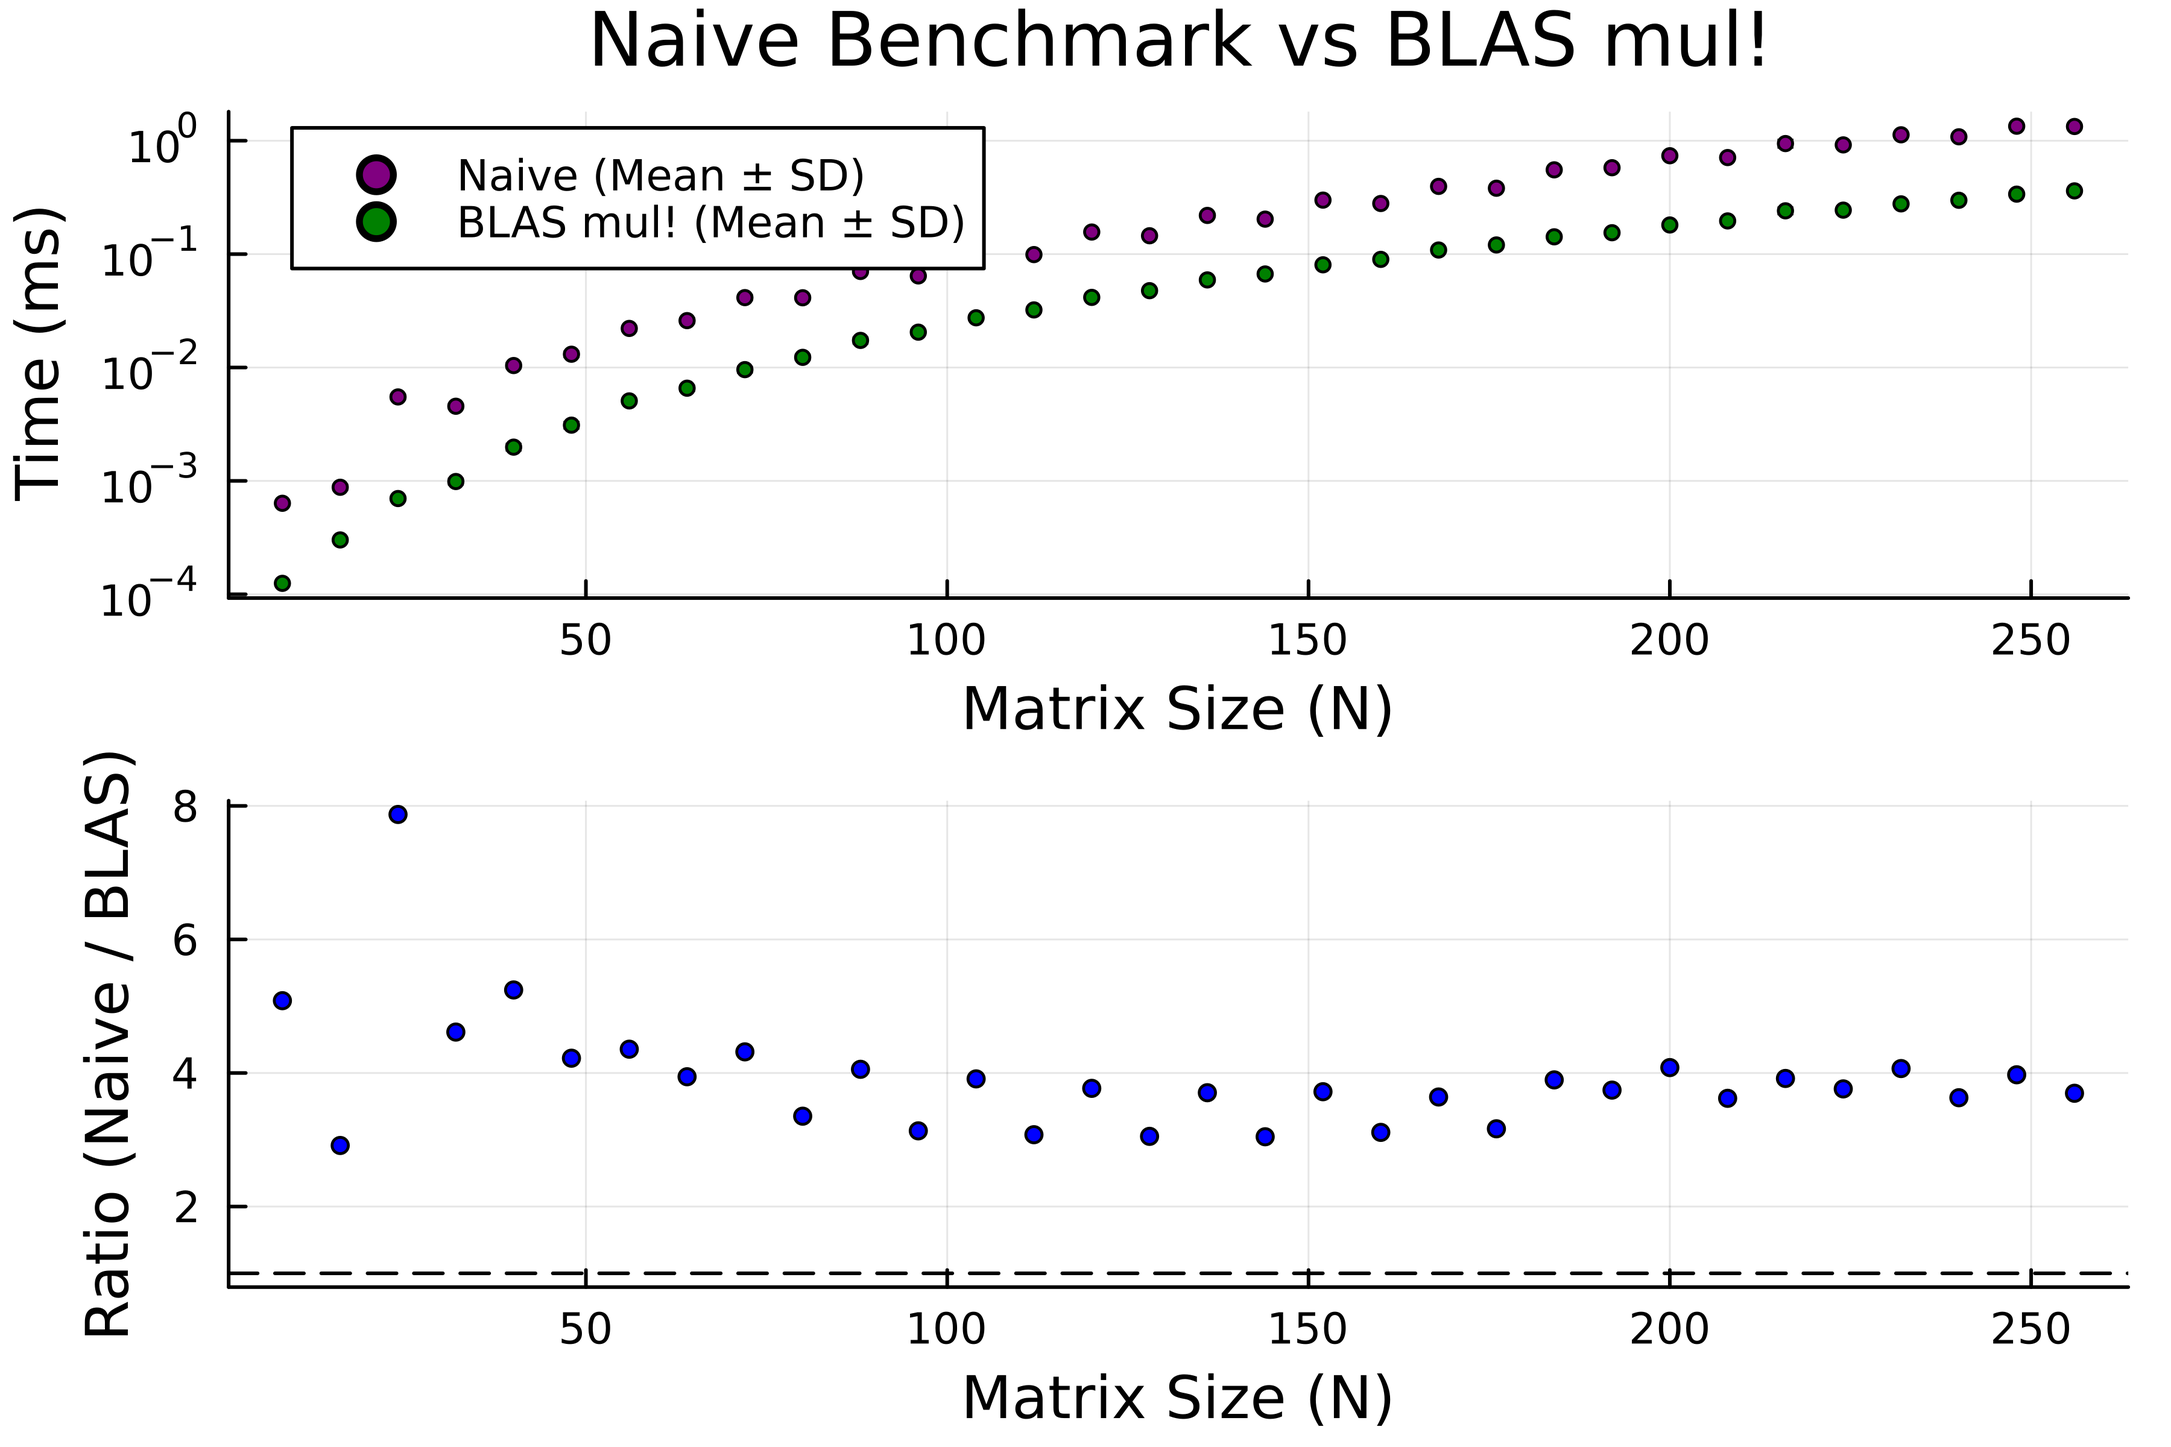
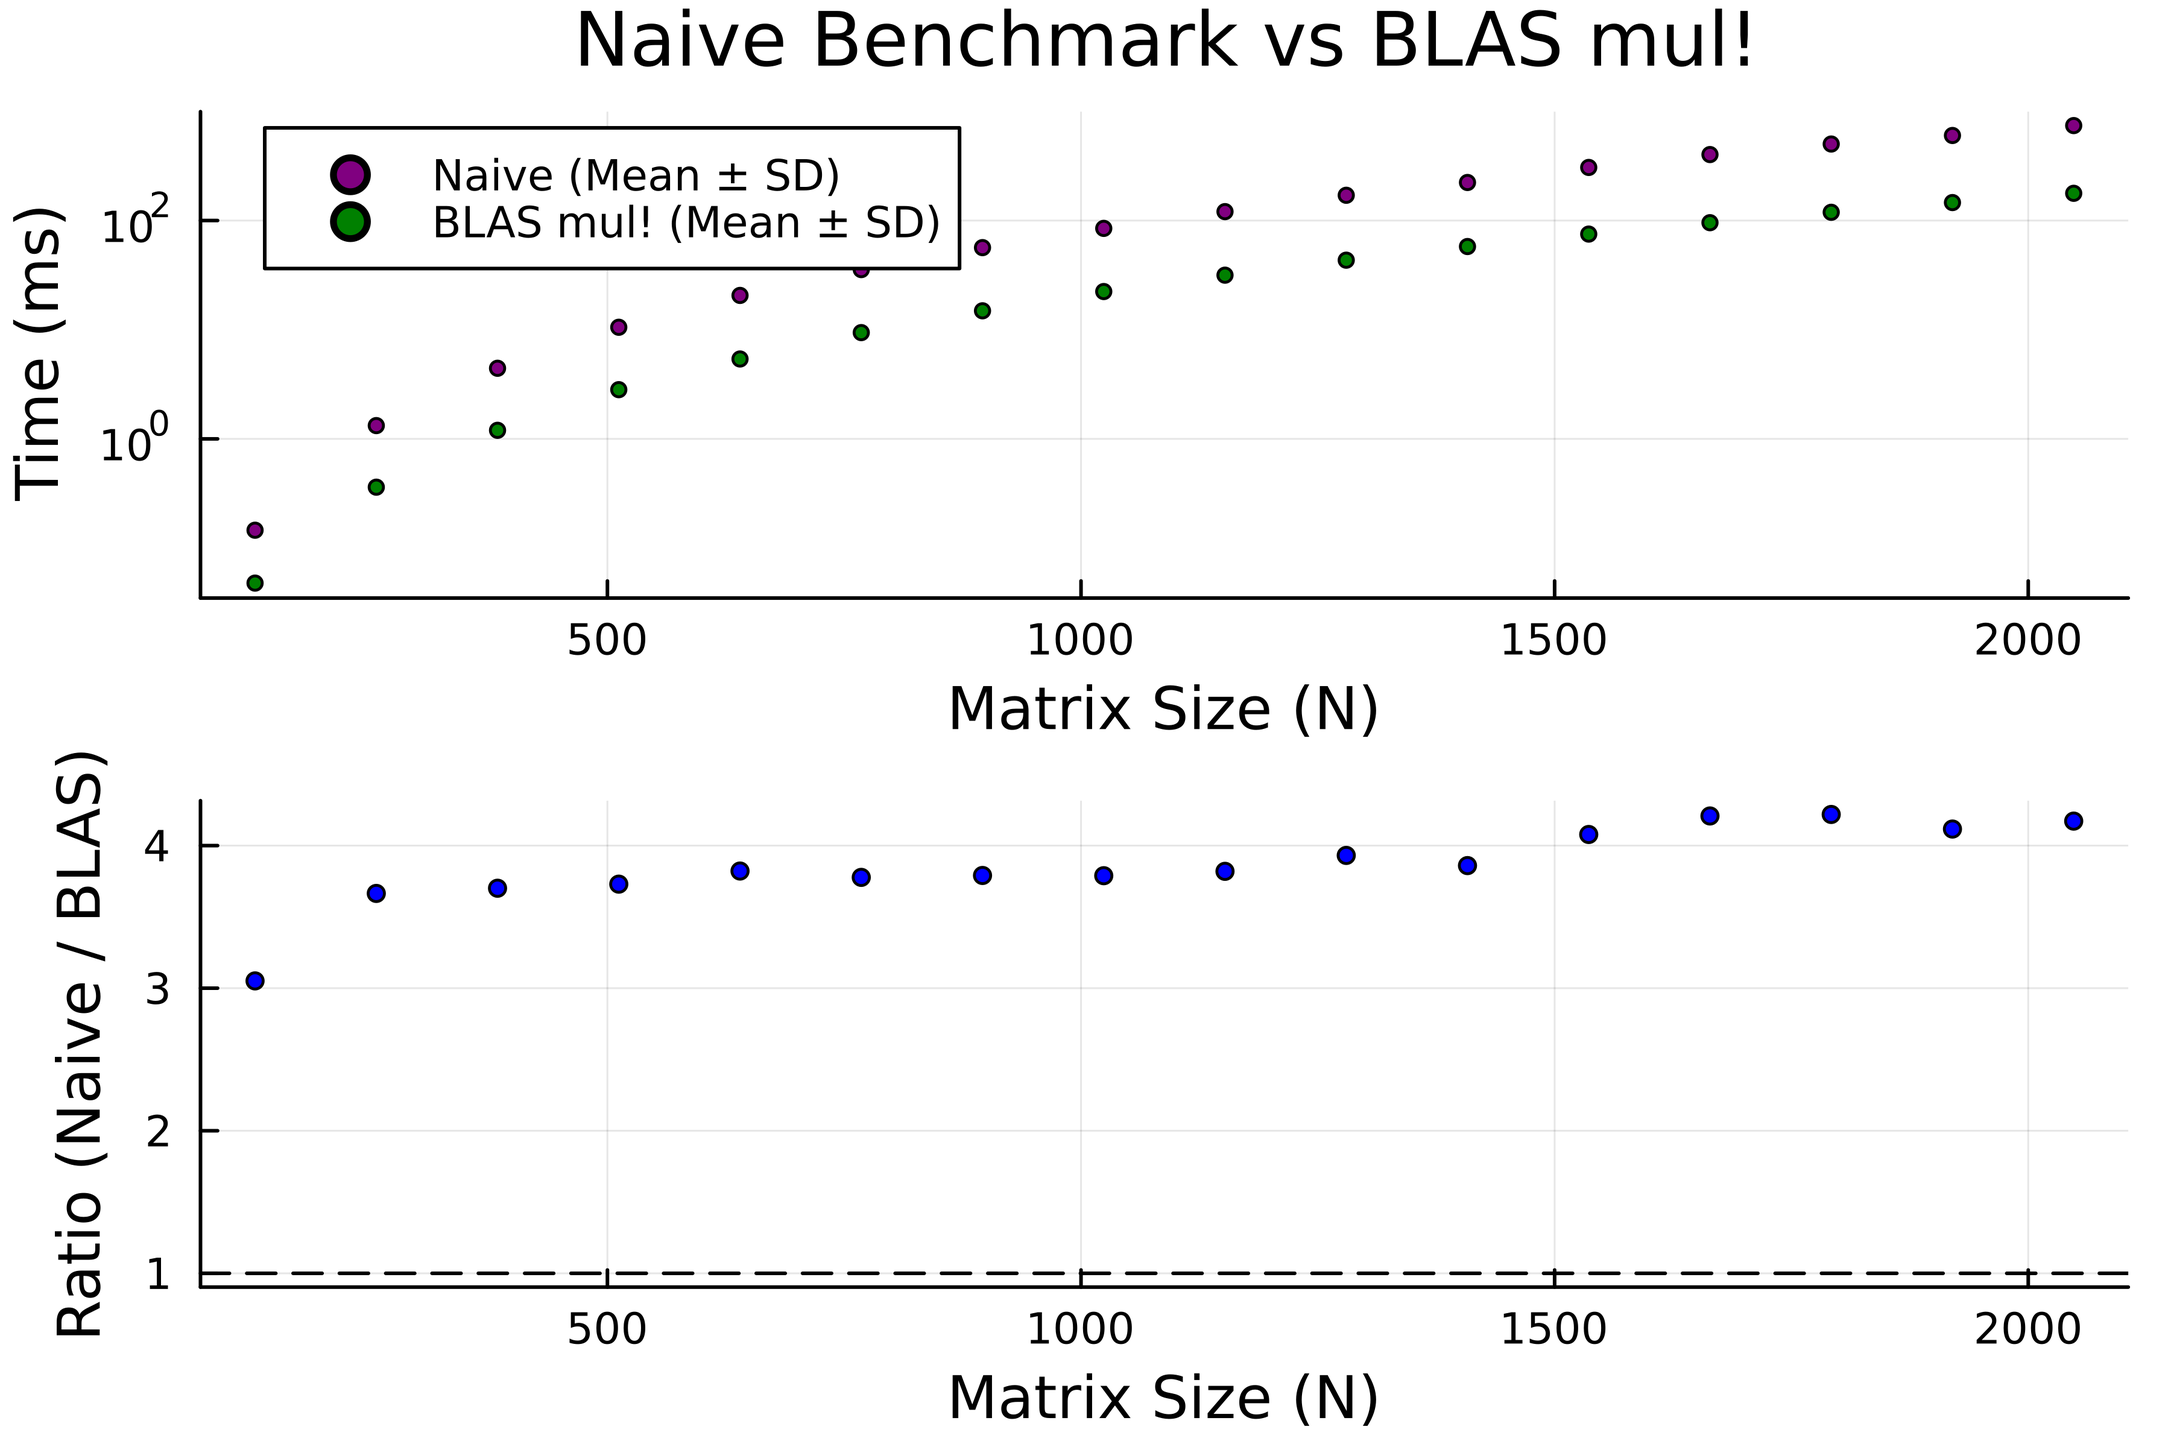
Writeup

diff --git a/README.md b/README.md
@@ -1,2 +1,112 @@
 # GEMM-workbench
 Implementing a cache-aware, partially generic GEMM in Julia
+
+## Disclaimer
+
+The benchmarks and hyperparameter tuning was performed on an M1 Pro. The microkernel design makes use of certain ARM-specific NEON SIMD intrinsics implicitly: however we will discuss non-ARM alternatives. 
+
+The high-level implementation used here is largely based on the following [BLIS paper](https://link.springer.com/article/10.1007/s11227-022-05003-3): the microkernel is backend agnostic and is making use of the LLVM-level **SIMD.jl** package and code generation. The GEMM presented is strictly single-thread but we will discuss potential paralelization techniques.
+
+We only show an FP32 implementation, however the generated nature of the microkenerl makes it trivial to generalize to higher (or lower) precisions.
+
+## Matrix Multiplication
+
+It would be not a great exagaration to claim that matrix multiplication is one of the most important parts of modern computing: from solving linear problems, to linear programming, regression, modern machine learning models, graphics and even graph theory, it dominates both technical and non-technial computing and powers large parts of our modern infrastructure. 
+
+General matrix multiplication (GEMM) thus tends to be one of the most optimized pieces of code ever written, with microkernels typically written in assembly directly. They typically push the theoretical maximum FLOPs (floating point operations per second) of hardware by carefully hiding latency and managing the cache-flow of the involved memory. This makes these implementations, as we will see, dozens of times faster than naive "triple loop" solutions.
+
+## Cache 101
+
+Virtually all modern hardware makes use of a **cache hierarchy**: that is, between RAM and the CPU registers (which can actually modify data) we have multiple layer (typically called L3-L1) **caches** which are faster to access by the CPU than RAM. Cache that is closer to the CPU is smaller in size (typically ~32-128 kB) but is extremely fast to access: cache "further out" is slower to access but holds much more data.
+
+The way and how data is cached is dictated by two things: these are typically called **temporal** and **spatial locality**. 
+
+Whenever the CPU requests data from memory, its also grabs the surronding 64-byte strip called a **cache line**, i.e. we anticpiate that data that is close in memory will be used again soon: hence the **spatial** part. If we use data that efficently by understanding the underlying memory layout, we can make use of this effect and use this close-by-data which is already bough to the fast-access cache.
+
+Since caches have small memory sizes, the CPU usually relies on a heuretic like least-recently-used (LRU) selection to remove "old" data from the cache and make space for new one. Good usage of **temporal locality** means that we keep data "hot" in cache, and keep reusing it as long as possible, before it being evicted by the CPU, i.e. we effectively stop needless reloads from RAM.
+
+## Memory layout 101
+
+All memory is one-dimensional and discrete. Higher dimensional objects, like matrices, N-D arrays, map into the underlying 1-D memory through space-filling curves. Due to historical reasons (mainly because of the differing conventions used by C and Fortran), two main ways of such emerged: **Column major** (Fortan, Julia) and **row major** (C-languages, Numpy), called as such for which dimension is continious in a matrix (rows or columns). For instance, for a matrix multiplication, we can visualize the linear memory indeces in Julia as seen bellow.
+
+![](./media/linear_index_matmul.png)
+
+## Naive approaches and where they fail
+
+The often cited (and for small matrices, not too bad!) implementation to compute $C_{ij} = A_{ik}B_{kj}$ relies on maximizing **spatial locality** to try to achieve high performance. In Julia, this means a loop order of j-k-i (outermost loop is j).
+
+The following figure shows the result of this implementaion compared to BLAS. 
+
+![](./media/naive_spat_loc_vs_blas_comp.png)
+
+While this implementation exploits spacial locality, it completely neglects temporal locality. As the size of the involved matrices grow, less and less of them will fit into the inner caches. The j-k-i order means that, due to the LRU nature of the cache system, we are constantly trashing elements of matrix A (which were not used recently) and we need to reload it from slower cache layers! This is visible on the plot - the ratio to BLAS speed is roughtly constant on two intervals, and ju,ps once it hits the limit of the L2 and L3 cache, which cause trashing into the L3 and RAM respectively.
+
+A naive solution to this would be to ignore spatial locality altogether and go for greatly increased **temporal locality**. This is achieved via an j-i-k order, which is optimal for the spatial locality of C and A, but trashes spatial access for B. 
+
+As it turns out, this is a horrible idea. Modern CPUs are also eqipped with some tools to mitigate inefficient spatial and temporal access patterns, but it is simply not enough to neglect the inefficient access for B (also, makes it harder for the compiler to apply SIMD intrinsics)
+
+![](./media/naive_temp_loc_vs_blas_comp.png)
+
+For these implementations, see the scripts `naive_spat_loc_vs_blas.jl` and `naive_temp_loc_vs_blas.jl` scripts.
+
+## Anatomy of a high-performance GEMM
+
+A high perfomance matrix-multiplication algorithm relies on a mixture of three factors - these are **tiling**, **packing** and **microkernel design**. In effect, it aims to keep the CPU constantly occupied, and to minimize cache latency to feed the CPU, therefore maximizing FLOPs.
+
+**Tiling**, blocking or residency management referes to a technique where instead of iterating A and B element-by-element, we instead go over them by larger sub-matrices called **tiles**. By basically subdividing the original "hot" loops, we can keep each tile in memory longer, increasing **temporal locality** and somewhat **spatial locality**.
+
+On a more detailed level, their size is typically chosen they will fit into a particular cache, i.e. greatly increasing temporal locality. Typically this means that one of the sub-matrices is made resident so that fits into the L3 cache and the other is sized so that it fits into ~half of the L2 cache (to allow the L3-resident to "stream through" L2 unimpended). Since these tiles are explicitly copied when we pack them (discussed in the next section why), we want to copy the larger (L3 resident) less, and the L2 resident more often, to amortize their cost over the subsequent, inner loops. This means that the loop order should be chosen so that the outer two loops loop over the indeces of the L3-resident matrix, and the inner two loops should be looping over the L2-resident matrix's indeces. Since these loops cover large sub-matrices, and are carried out only a few times, their order with respect to temporal or spatial locality is ammortized anyway - this gives us relatively great freedom in which matrix to make resident and where.
+
+In the implemention found in `src/GEMM.jl`, we chose a macro-loop order that packs $A$ sub-matrix at the L3 level, and $B$ tile to ~half of the L2 capacity. (i-k-j macro loop order, from outermost to innermost). This choice is somewhat arbitrary - we can change the loop order and thus the tiling strategy, and due to being ammortized, its not likely to change the benchmark results too much.
+
+The strategy is illustrated bellow:
+
+![](./media/tiling_strategy.png)
+
+**Packing** refers to a technique where we re-order the copied sub-matrices so that they become "more continious" for the **microkernel** to operate on. This typically means that for **both** matrices, we want to create two stripes (such stripes have the entire k-length of the buffer, but very small i/j sizes, as dictated by the **microkernel** design's dimension, which we should call `I, J`), which, when combined in size, fit into the L1 cache and have continious access patterns for a **fixed** k, i.e. say the elements of `B[k, j], B[k, j+1], B[k, j+2]...` are now continious in memory (for A also, but for column-major layout makes it easier to copy it into a continious buffer). This means that packing the non-continious buffer - B - involves an implicit step transposing step, but by carefully traversing the array in L1-shaped blocks, the lack of spatial locality is largely minimized. 
+
+For B, the packing step is illustarted bellow. The resulting matrix is `(J, K_long = K_macro * div(J_macro, J))` sbaped (i.e. we have continioity in the columns) and this matrix is only allocated once and overewritten each packing step (ammortizing the allocation's cost).
+
+![](./media/packing_visul.png)
+
+The **microkernel** is the bread and butter of a GEMM. All the previous steps had been carried out to make life easier for the microkernel - and since we will be spending >99% of teh execution time in there, it is paramount it is pushing the hardware's limit. Microkernels, by definition, need to reduced every single possible overhead and relly on hardware acceleration features, like SIMD instructions and fused-multiply-add (FMA) accumulators. Most microkernel work by having the outer, k loop (**K_long**) being unrolled by some factor (2-8, typically) to reduced loop overhead and allow the compiler to better pipeline exection, while a fixed number of the matrix C (the accumulators) are kept in registers (i.e. a `I x J` block) and for each K, we perform an outer product between the elements of A and B, which are at this point also loaded into SIMD registers. This innermost loop over the I and J registers is fully unrolled to reduced overhead and allow the compiler to further pipeline instructions.
+
+Our microkernel is made using Julia's `generated` function together with `SIMD.jl` to map into the underlying SIMD instructions. We are making use of ARM Neon's by-lane SIMD instructions, which allows us to choose one of the source terms in an FMA instruction as a scalar indexed into a SIMD register. ([see](https://developer.arm.com/documentation/ddi0602/2022-06/SIMD-FP-Instructions/FMLA--by-element---Floating-point-fused-Multiply-Add-to-accumulator--by-element--)). This is in contrast to x86 arch' where we typically instead load and broadcast a single element of B into a SIMD register and perform FMA with this "uniform" register instead - thus in effect, on ARM we have a marginally easier case of loading the elements of B, whereas on a x86 arch we would need to first broadcast. 
+
+The microkernel has a number of hyperparameters, which are already optimized in this implemention. These are the tile size of the accumulators in matrix `C` (the microkenrel dimensions), the length of unrolling the K-loop (kept low so that the instruction cache is not suffocated) and optional "spilling" parameters which might help on more exotic architectures (they essentially allocate more registers for accumulating into C then `I x J` by a factor of `accum_spill`, allowing the long FMA dependency chains to be broken up: this is useful if the chosen microkernel size is so small that the FPUs would be sitting idle). We typically want to chose microkernel dimensions so that the registers needed to hold the the C-accumulators and the current columns/stripes of A and B needed to perform the outer product all fit into registers (keep in mind that a simple register can hold `width/32` FP32s, so for a `16x4` microkernel on ARM for instance we need only 16 accumulator registers and some that load and store data from the A and B tile.)
+
+When the microkernel finishes the current accumulatoion (having finished the L1-cache sized stripe), the accumulators are added back into memory, minimizing the number of memory accesses touching C.
+
+We can compare the performance of the microkernel generated to the maximum possible single-core GFLOPs of our hardware - for an M1 Pro and FP32s, this is around ~103-104 GFLOPs.
+
+![](./media/microkernel_flops.png)
+
+As we can see, our microkernel has a mean/median GFLOPs of around ~99 GFLOPs, which is very good, suggesting almost perfect assembly generation and pipelining (`@code_native` confirms the former). All that remains now is to choose the microkernel dimensions based on a mixture of benchmarking the whole GEMM (larger tile sizes reduced loop overhead at the micro-tile level) and by napkin-math (i.e. keeping a reasonable number of C accumulators, and keeping the microkernel longer in the dimension that corresponds to a conditinious read (columns, i.e. `I`)). All that remains now is to benchmark the final product!
+
+## The results 
+
+Our final implemention is within 4-8% of the OPENBLAS `mul!()` calls for sufficiently large (matrices that are around, or larger than, the L2 cache). This makes it fairly performant, proving that the overall strategy chosen is overall sound, all while not using any very-low level tricks that are present in other languages (i.e. explicit assembly in the microkernel) and remaining flexible (the microkernel is not hardcoded, but generated "on demand").
+
+![](./media/blas_comp.png)
+
+## Limitations and ideas for improvement
+
+The current implementation prsented here suffers from a number of limitations, most of which is easily fixable.
+
+First of all, a true GEMM should be able to handle FP64 and transposed inputs as well. FP64s can be implemented easily - we can expect good performance by just switching to a `(8x4)` microkernel, but for transposed inputs, the packing logic would need to be modified - due to Julia's multiple dispatch this should be easy enough!
+
+The second is that we currently enforce that the matrix dimensions must be integer multiples of the microkernel dimensions. To fix this, we would need to accomodate the leftover tiles in the packing function, "zeroing" out the leftover portions to get the correct results from the microkernel (sometimes called "padding" even though we are not allocating extra memory, just keeping the lower rows of the microkernel "stripes" zeroed out on those cases).
+
+The third is relatively simple - we have currently determined the ideal hyperparameters, like macro-tile sizes and microkernel dimensions by benchmarking and analytical modelling, but we could at least partially generalize these as a function of known parameters, like cache sizes, vector register counts and widths, and number of FPUs, as a good starting set of parameters for any arch.
+
+The fourth is dealing with smaller matrices (<1024). Some of the techniques used, like packing or macro-tiling, is simply more trouble than worth for smaller matrcies, as all three matrices can fit comfortably into the L2 or even L1 cache, which causes visible degradation in the performance in the above plot. For extremely small (<20) matrices, it might even be worth to "fully unroll" the naive matrix multiplicaion. All of these ideas can be implemented as runtime specializations in the overall function and might be ground for a new project.
+
+The fifth, and last, is parallelization: currently, our code is strictly single-threaded. Optimizing parallel, BLAS like code is a whole another beast, but a good starting point would be to parallelize the macro-loops, specifically the `i` or `j` loops to avoid data races.
+
+
+
+
+
+
+
+
